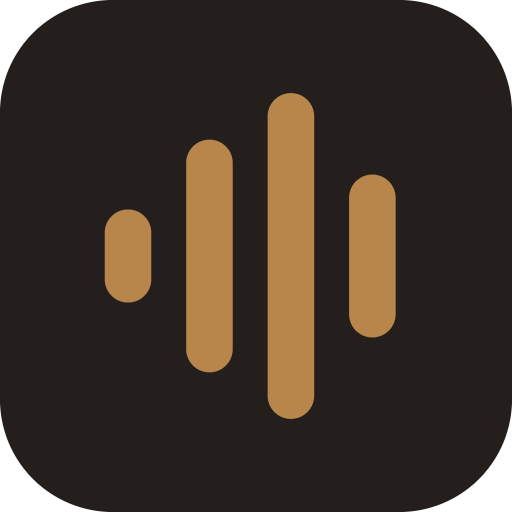
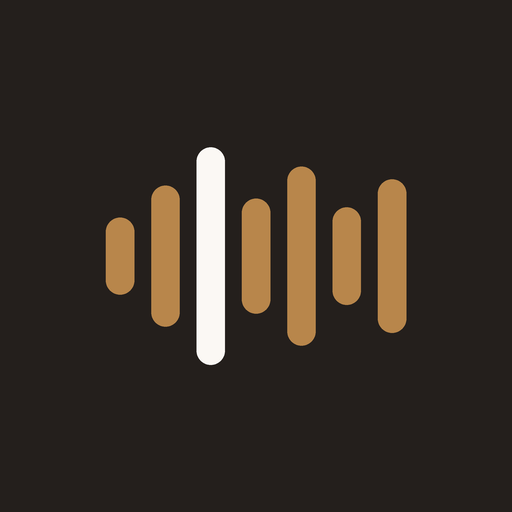
Add files via upload

diff --git a/fotoritm/index.html b/fotoritm/index.html
@@ -3,7 +3,7 @@
 <head>
 <meta charset="utf-8">
 <meta name="viewport" content="width=device-width, initial-scale=1, viewport-fit=cover">
-<title>Foto Ritim – Özgüler Forge (v3.5 Studio)</title>
+<title>Foto Ritim – Özgüler Forge (v3.5.1 Studio)</title>
 <meta name="description" content="Fotoğraflarını müziğin ritmine göre sinematik videoya çevir. Orijinal kalite, çevrimdışı çalışır.">
 <meta name="theme-color" content="#fbf8f4" media="(prefers-color-scheme: light)">
 <meta name="theme-color" content="#141210" media="(prefers-color-scheme: dark)">
@@ -449,12 +449,13 @@ dialog p,dialog li{color:var(--mu);font-size:.9rem;line-height:1.55}
 <div id="toast"><span id="tm"></span><button id="tb" class="main">Tamam</button></div>
 
 <script>
-const APP_VERSION = 'v3.5.0 Studio';
+const APP_VERSION = 'v3.5.1 Studio';
 const $ = id => document.getElementById(id);
 const cv = $('cv'), main = cv.getContext('2d'), tlc = $('tlc'), tctx = tlc.getContext('2d');
 let ctx = main, mc = null, bc = null, wfCache = null, grainCanvas = null, imgs = [], AC = null, buf = null, audFile = null, beats = [], bpm = 0;
 let tl = [], BS = [], barBeats = [], startT = 0, endT = 0, beatPeak = 0, sections = [], manualStarts = new Map(), runEndT = 0;
 let vlive = false;
+let starting = false, starved = false, tick = 0, lastRender = 0, recT0 = 0, recFrames = 0, recExpect = 0;
 let pf = 0, lastUrl = null, dragI = -1, lastSec = -1, src = null, ctx0 = 0, playing = false, recMode = false, raf = 0, mr = null, chunks = [], finishing = false;
 
 // ---------- Tema Yönetimi ----------
@@ -1323,6 +1324,7 @@ function put(i, o = {}) {
   ctx.drawImage(b, -bw * r / 2 + focusOffsetX, -bh * r / 2 + focusOffsetY, bw * r, bh * r);
 
   if (o.tint) {
+    ctx.filter = 'none';
     ctx.globalCompositeOperation = 'multiply';
     ctx.fillStyle = o.tint;
     ctx.fillRect(-W / 2, -H / 2, W, H);
@@ -1371,6 +1373,17 @@ const ramp = (g, s, f) => {
   return g;
 };
 
+let rc = null;
+// Kırmızı / camgöbeği kanalını ayrı bir tuvalde üretip ana tuvale toplar (kanallar birbirini ezmez)
+function rgbLayer(idx, o, comp) {
+  if (!rc || rc.width !== cv.width || rc.height !== cv.height) { rc = document.createElement('canvas'); rc.width = cv.width; rc.height = cv.height; }
+  const m = rc.getContext('2d'), prev = ctx;
+  m.globalCompositeOperation = 'source-over'; m.globalAlpha = 1; m.fillStyle = '#000'; m.fillRect(0, 0, rc.width, rc.height);
+  ctx = m;
+  try { put(idx, Object.assign({}, o, { noBg: true })); } finally { ctx = prev; }
+  ctx.save(); ctx.globalCompositeOperation = comp; ctx.drawImage(rc, 0, 0); ctx.restore();
+}
+
 function trans(k, p, a, b) {
   const W = cv.width, H = cv.height, e = p * p * p * (p * (p * 6 - 15) + 10), q = p < .5 ? 8 * p * p * p * p : 1 - Math.pow(-2 * p + 2, 4) / 2, S = Math.sin(p * Math.PI);
   const dark = al => { ctx.fillStyle = 'rgba(0,0,0,' + al + ')'; ctx.fillRect(0, 0, W, H); };
@@ -1410,8 +1423,8 @@ function trans(k, p, a, b) {
       const shift = Math.sin(p * Math.PI) * W * 0.042;
       const sc = p < .5 ? (1 + p * .12) : (1.08 - (p - .5) * .16);
       ctx.fillStyle = '#000'; ctx.fillRect(0, 0, W, H);
-      put(target, { dx: -shift, sc: sc * 1.03, tint: 'rgb(255, 40, 40)', comp: 'screen', noBg: true });
-      put(target, { dx: shift, sc: sc * 1.03, tint: 'rgb(40, 255, 255)', comp: 'screen', noBg: true });
+      rgbLayer(target, { dx: -shift, sc: sc * 1.03, tint: 'rgb(255,0,0)' }, 'lighter');
+      rgbLayer(target, { dx: shift, sc: sc * 1.03, tint: 'rgb(0,255,255)' }, 'lighter');
       break;
     }
     default: put(a, { sc: 1 + .03 * e }); put(b, { sc: 1.03 - .03 * e, al: e });
@@ -1772,6 +1785,18 @@ function scheduleTransitionSFX(ctxStartTime, offsetSec, limitSec, destNodes) {
 }
 
 async function start(rec, from, shortPreview = false) {
+  if (starting) return;
+  starting = true;
+  try { await startRun(rec, from, shortPreview); }
+  catch (x) {
+    console.error(x);
+    try { if (mr && mr.state !== 'inactive') { finishing = false; mr.stop(); } } catch (y) { }
+    stop(); lock(0); $('rec').disabled = $('play').disabled = !tl.length;
+    say('Başlatılamadı: ' + ((x && x.message) || x), 'err');
+  } finally { starting = false; }
+}
+
+async function startRun(rec, from, shortPreview = false) {
   if (!tl.length) return;
   stop();
   const isMobile = /Android|iPhone|iPad|iPod/i.test(navigator.userAgent);
@@ -1839,6 +1864,8 @@ async function start(rec, from, shortPreview = false) {
         if (outputWriter) { await writeQueue; await outputWriter.close(); outputBlob = await outputHandle.getFile(); }
         else if (chunks.length) outputBlob = new Blob(chunks, { type: mt.split(';')[0] });
       } catch (e) { lock(0); say('Dosya yazma tamamlanamadı.', 'err'); $('rec').disabled = $('play').disabled = false; return; }
+      const wall = (performance.now() - recT0) / 1000;
+      if (recFrames < 8 || wall < recExpect * .6) { lock(0); $('pg').hidden = true; say('Kayıt erken sona erdi (' + recFrames + ' kare). Kaydı yeniden başlat ve kayıt bitene kadar sekmeyi açık tut.', 'err'); $('rec').disabled = $('play').disabled = false; draw(startT); drawTL(startT); return; }
       if (!outputBlob || outputBlob.size < 40000) { lock(0); $('pg').hidden = true; say('Kayıt boş çıktı. 720p ile deneyin.', 'err'); $('rec').disabled = $('play').disabled = false; return; }
 
       const ext = fileExt, url = URL.createObjectURL(outputBlob);
@@ -1855,6 +1882,7 @@ async function start(rec, from, shortPreview = false) {
       lock(0);
       say('Video başarıyla oluşturuldu ✓', 'ok'); $('pg').hidden = true; $('tc').textContent = ''; draw(startT); drawTL(startT); $('rec').disabled = $('play').disabled = false;
     };
+    recT0 = performance.now(); recFrames = 0; recExpect = runEndT - pf;
     mr.start(1000); $('rec').disabled = true; say('Kaydediliyor… ekranı açık tut ve uygulamadan çıkma.');
   }
 
@@ -1866,18 +1894,27 @@ async function start(rec, from, shortPreview = false) {
     const tot = endT - pf, fd = Math.min(1.2, tot / 3), fi = Math.min(.6, fd), g = gn.gain;
     g.setValueAtTime(0, ctx0); g.linearRampToValueAtTime(1, ctx0 + fi); g.setValueAtTime(1, ctx0 + tot - fd); g.linearRampToValueAtTime(0, ctx0 + tot);
   }
-  src.onended = () => { if (playing) finish(); };
+  const mySrc = src;
+  src.onended = () => { if (playing && src === mySrc) finish(); };
   playing = true; vlive = true; syncVids(pf); recMode = rec;
   $('play').textContent = rec ? '⏹ Kaydı İptal Et' : '⏹ Durdur';
   $('pg').value = 0; $('pg').hidden = false;
+  lastRender = performance.now();
   raf = requestAnimationFrame(frame);
+  // Sekme arka plana geçse bile kareler üretilsin (rAF durursa zamanlayıcı devralır)
+  clearInterval(tick);
+  starved = false;
+  tick = setInterval(() => { if (playing && (starved || performance.now() - lastRender > 100)) { starved = true; frame(true); } }, 33);
 }
 
-function frame() {
+function frame(fromTimer) {
   if (!playing) return;
+  lastRender = performance.now();
   const t = pf + Math.max(0, AC.currentTime - ctx0);
   if (t >= runEndT - .02) return finish();
-  syncVids(t); draw(t, 1); drawTL(t); drawEQ(); raf = requestAnimationFrame(frame);
+  syncVids(t); draw(t, 1); drawTL(t); drawEQ();
+  if (recMode) recFrames++;
+  if (fromTimer !== true) { starved = false; raf = requestAnimationFrame(frame); }
   const tot = runEndT - pf, el = Math.min(tot, t - pf); $('pg').value = el / tot;
   const sec = Math.floor(el);
   if (sec !== lastSec) {
@@ -1888,20 +1925,21 @@ function frame() {
 }
 
 function finish() {
-  playing = false; cancelAnimationFrame(raf); $('play').textContent = '▶ Önizle (Boşluk)';
+  if (!playing) return;
+  playing = false; cancelAnimationFrame(raf); clearInterval(tick); tick = 0; $('play').textContent = '▶ Önizle (Boşluk)';
   if (recMode) $('play').disabled = true; else { $('pg').hidden = true; $('tc').textContent = ''; }
   draw(Math.max(startT, runEndT - .03), recMode); vstop(); drawTL(endT); drawEQ(1);
   if (recMode && mr && mr.state !== 'inactive') {
     finishing = true;
     try { const track = mr.stream && mr.stream.getVideoTracks()[0]; if (track && typeof track.requestFrame === 'function') track.requestFrame(); } catch (x) { }
-    setTimeout(() => mr.stop(), 1000);
+    setTimeout(() => { try { if (mr.state !== 'inactive') mr.stop(); } catch (x) { } }, 900);
   }
 }
 
 function stop() {
   const wasRec = recMode && playing;
-  playing = false; cancelAnimationFrame(raf); vstop(); stopSfx();
-  try { src && src.stop(); } catch (x) { }
+  playing = false; cancelAnimationFrame(raf); clearInterval(tick); tick = 0; vstop(); stopSfx();
+  if (src) { src.onended = null; try { src.stop(); } catch (x) { } try { src.disconnect(); } catch (x) { } }
   if (wasRec && mr && mr.state !== 'inactive') {
     finishing = false; try { mr.stop(); } catch (x) { } lock(0); $('rec').disabled = !tl.length; say('Kayıt iptal edildi.');
   }

diff --git a/fotoritm/sw.js b/fotoritm/sw.js
@@ -1,4 +1,4 @@
-const V = 'foto-ritim-v3.5.0';
+const V = 'foto-ritim-v3.5.1';
 const A = [
   './',
   'index.html',

diff --git a/fotoritm/README.md b/fotoritm/README.md
@@ -1,7 +1,13 @@
-# Foto Ritim v3.0 Pro – Özgüler Forge
+# Foto Ritim v3.5.1 – Özgüler Forge
 
-## Yapılan Düzeltmeler ve Yeni Özellikler
-1. **PWA Dosya Ayrıştırması:** sw.js ve manifest.webmanifest ayrıştırıldı, eksik uygulama ikonları (192x192, 512x512, maskable, apple-touch-icon) pakete eklendi.
-2. **Gerçek RGB Kanal Ayrışması (Chromatic Aberration):** Glitch geçişlerinde kırmızı ve camgöbeği renk kanalları fiziksel olarak ayrıştırıldı.
-3. **Sinematik Efektler:** Vinyet (kenar karartma), 2.35:1 anamorfik sinema şeritleri, 35mm film greni ve Teal & Orange LUT profili eklendi.
-4. **Etkileşimli Zaman Çizelgesi:** Çift tıklayarak yeni kesim noktası ekleme, sağ tıklayarak kesim silme ve Boşluk / Yön Tuşları kısayolları eklendi.
+## v3.5.1 düzeltmeleri
+1. **Boş / siyah video hatası (ana düzeltme):** Önizleme çalışırken ya da önizlemeden hemen sonra "MP4 kaydet"e basıldığında, eski ses kaynağının `onended` olayı yeni kaydı anında bitiriyordu. Sonuç: yalnızca 2 siyah kare + 1 sn ses. Eski kaynağın olayı artık durdurulurken temizleniyor ve her çalıştırma kendi kaynağına bağlı.
+2. **Oynatma sırasında ← / → ile atlama** artık oynatmayı kesmiyor (aynı hatanın etkisiydi).
+3. **Arka plan / sekme değişimi:** requestAnimationFrame durursa zamanlayıcı devralıyor, kareler üretilmeye devam ediyor.
+4. **Boş kayıt koruması:** Kayıt erken bitmişse artık "başarılı" denmiyor, net bir hata gösteriliyor.
+5. **Çift tıklama koruması:** Kayıt düğmesine iki kez basmak ikinci bir kayıt başlatmıyor.
+6. **RGB Kayması (Glitch) geçişi:** İkinci renk kanalı birinciyi siyaha boğuyordu; kanallar artık ayrı katmanda üretilip toplanıyor (gerçek kromatik sapma).
+7. **Eksik PWA ikonları** pakete eklendi (192, 512, maskable, apple-touch).
+
+## Yayınlama
+Tüm dosyaları aynı klasöre HTTPS ile yükle. sw.js sürümü `foto-ritim-v3.5.1` olarak artırıldı; telefonlar yeni sürümü "Yeni sürüm hazır" bildirimiyle alır.
